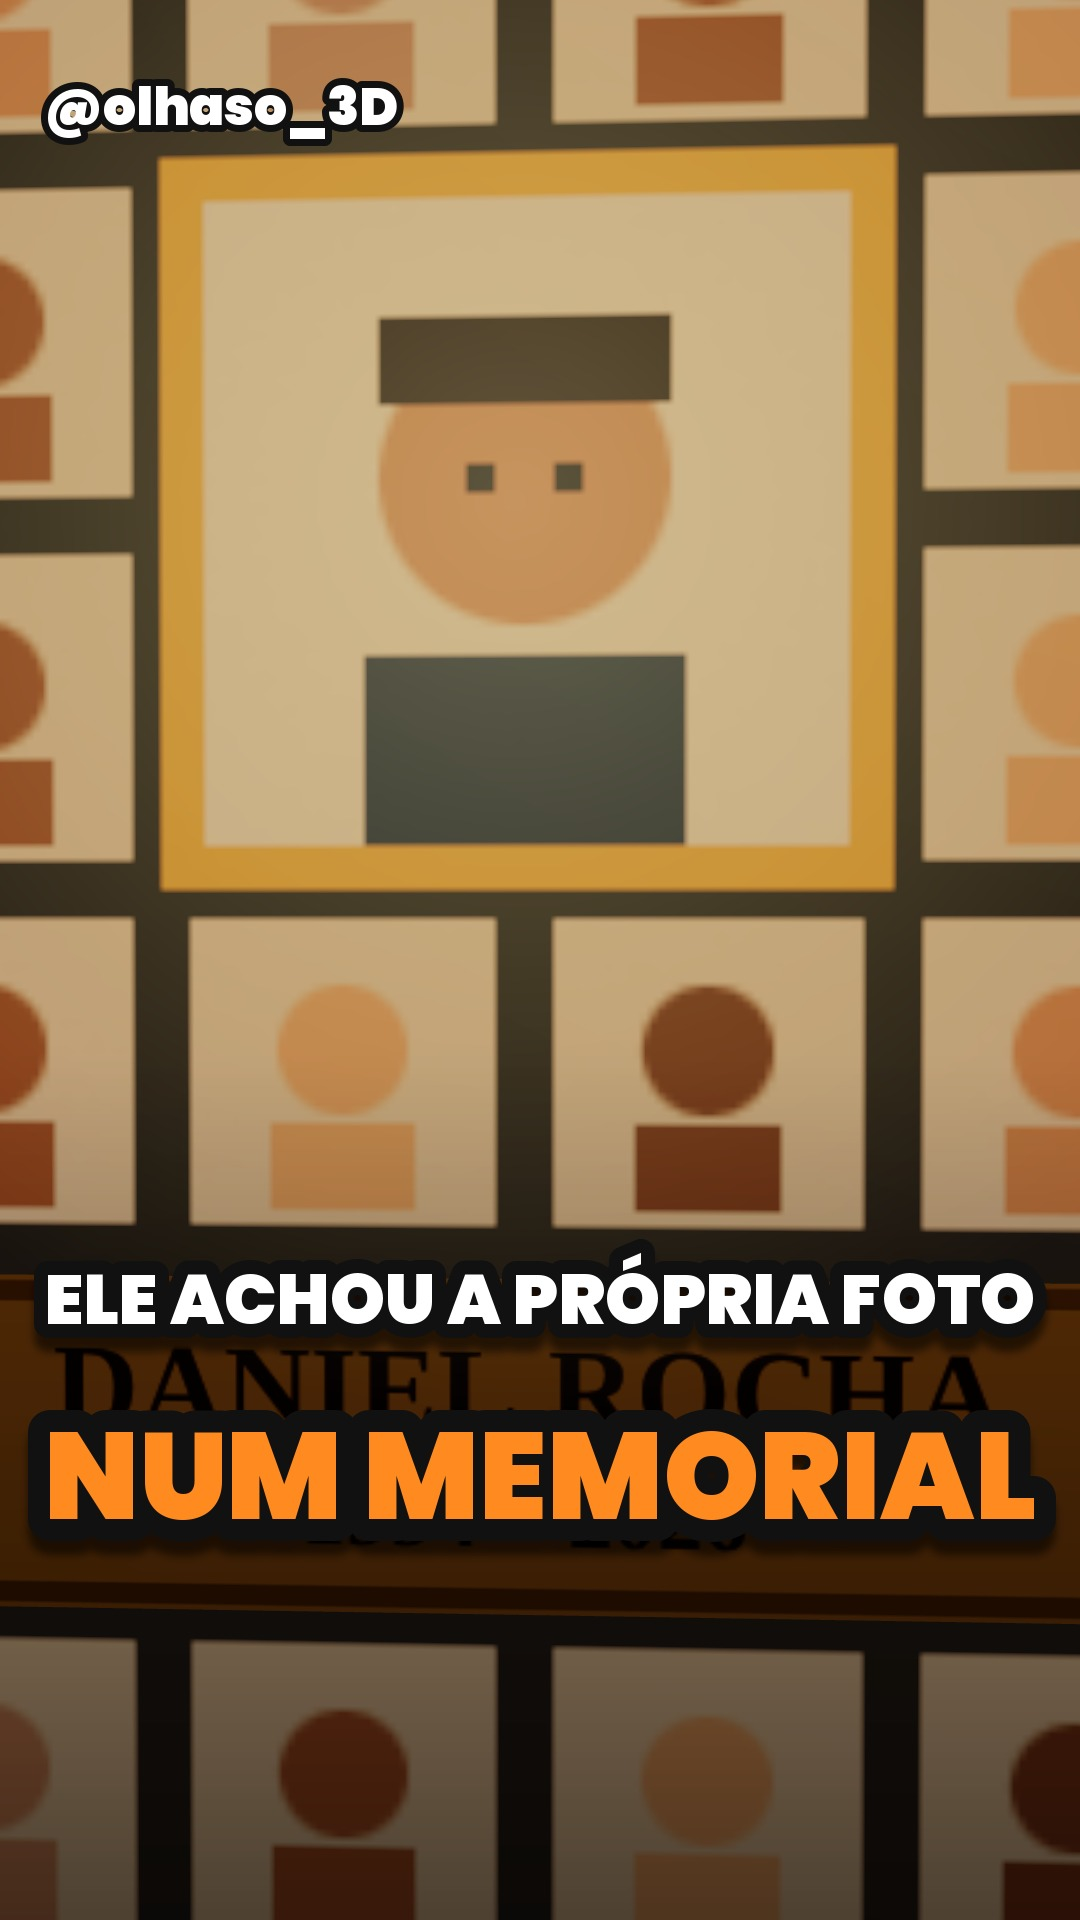
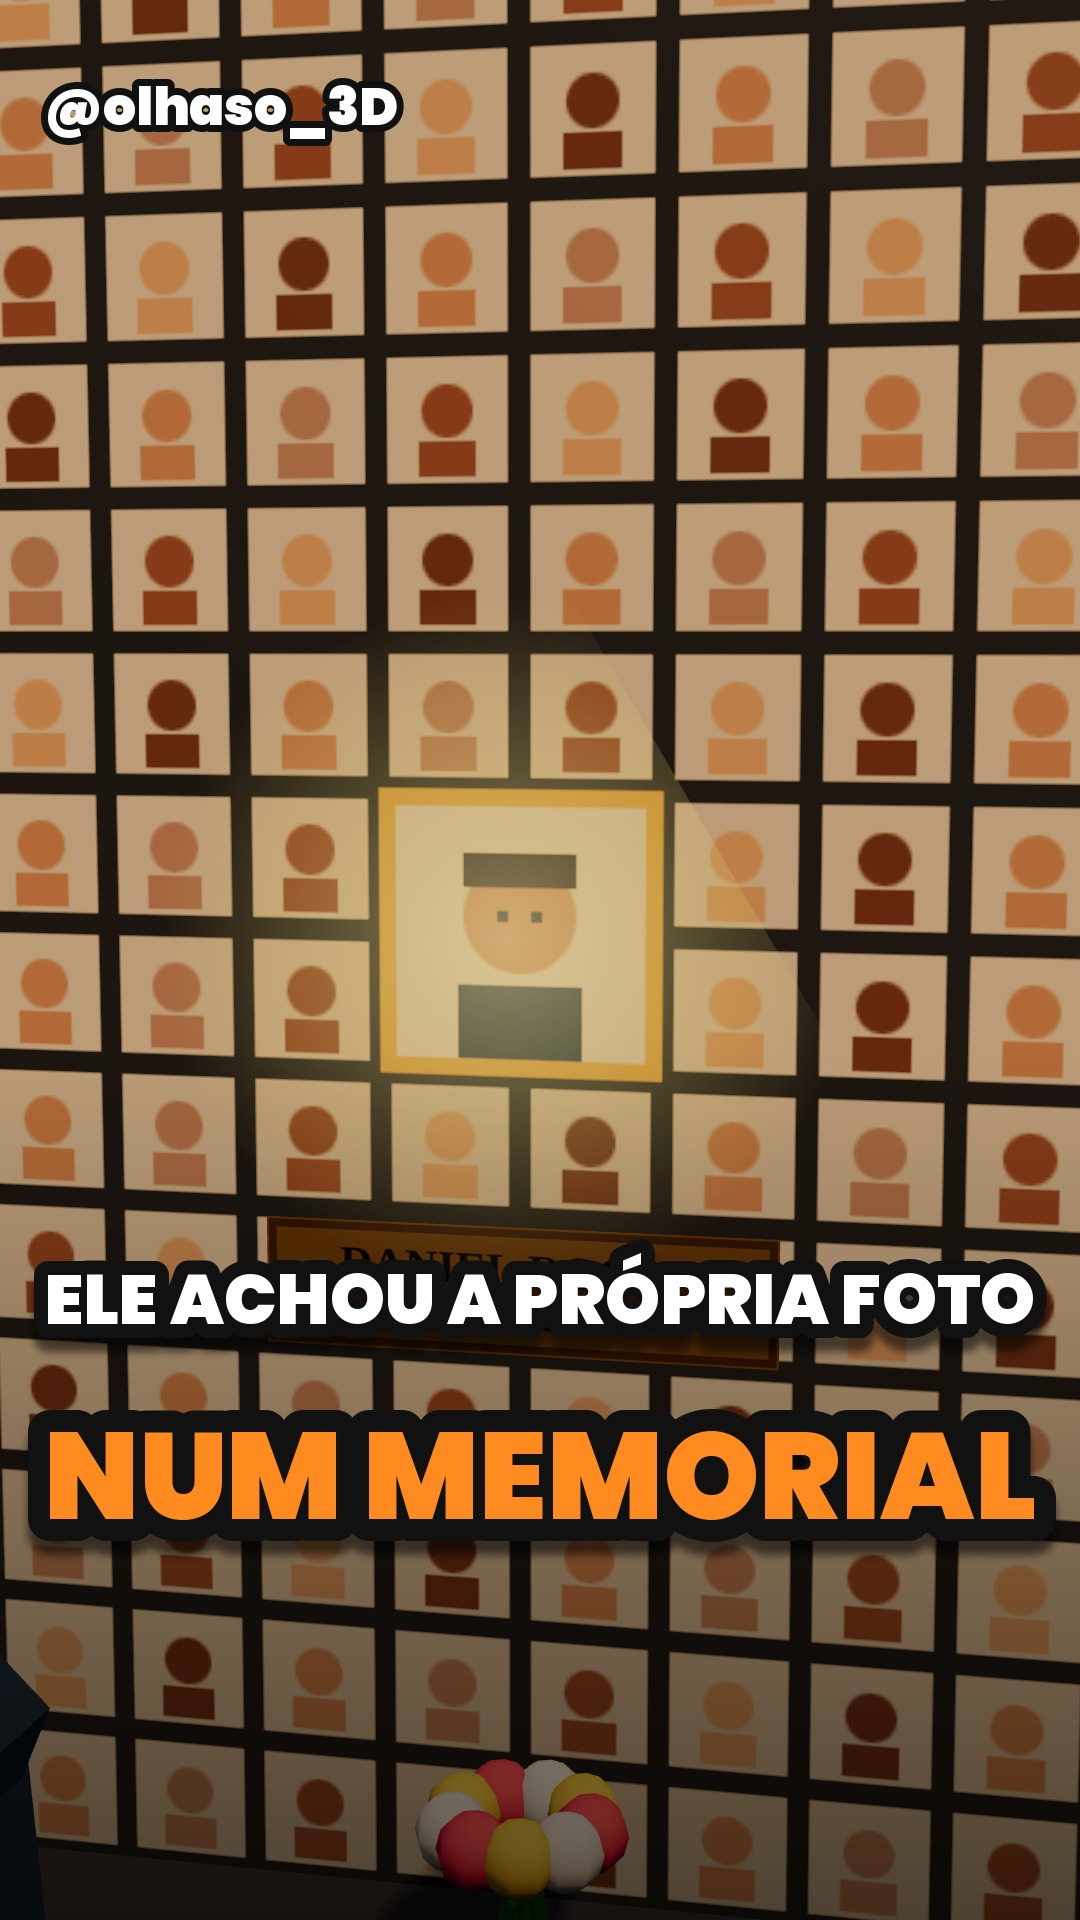
Homem do futuro EP2: capa e enquadramento do memorial
Claude-Session: https://claude.ai/code/session_01EFSTKq34jXjTuapL6t6du5

diff --git a/videos/homem-futuro-ep2/scene.html b/videos/homem-futuro-ep2/scene.html
@@ -336,7 +336,7 @@ const SHOTS = [
   [T_ERA - .1, (t, k) => { world('mem', t); paintNote(0); photoGlow.material.opacity = 0; P_DAN(daniel, 0, 2.0 - Math.min(k, 4) * .15, Math.PI, PP.stand, 'neutral', k < 4 ? .6 : 0, t, mem); return [V(.8, 2.2 - k * .08, 7.0 - k * .3), V(0, 1.2, -1.2)]; }],
   // 15 bem no meio... estava ele. Daniel Rocha 1994–2026
   [T_ELA - .1, (t, k) => { world('mem', t); paintNote(0); photoGlow.material.opacity = t > T_ESTAVA - .2 ? .5 + Math.sin(t * 4) * .2 : 0; P_DAN(daniel, 0, .9, Math.PI, PP.stand, t > T_COMO ? 'sad' : 'shock', 0, t, mem);
-    return t < T_DR2 - .2 ? [V(.0, 1.6, 1.6 - k * .15), V(0, 1.55, -1.6)] : [V(.1, 1.35, -.1), V(0, 1.32, -1.6)]; }],
+    return t < T_DR2 - .2 ? [V(.75, 1.95, 2.4 - k * .2), V(0, 1.5, -1.6)] : [V(.1, 1.35, -.1), V(0, 1.32, -1.6)]; }],
   // 16 flores frescas logo embaixo e um bilhete
   [T_MAS2 - .1, (t, k) => { world('mem', t); paintNote(0); photoGlow.material.opacity = .4; P_DAN(daniel, 0, .9, Math.PI, t > T_FORAM ? { ...PP.stand, hx: .6, lean: .25 } : PP.stand, 'shock', 0, t, mem);
     return t < T_FORAM - .1 ? [V(-.3, 1.6, -.25), V(0, 1.6, .9)] : [V(.25, .75, -.45), V(.1, .2, -1.2)]; }],
